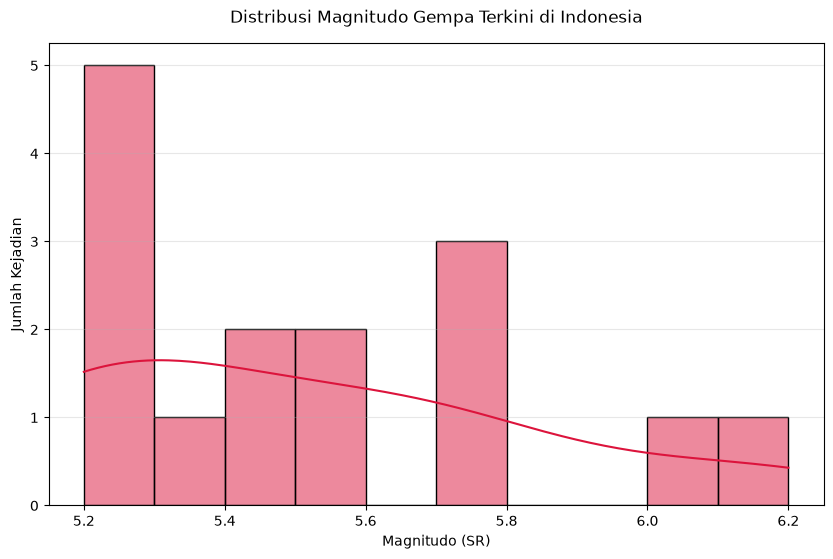
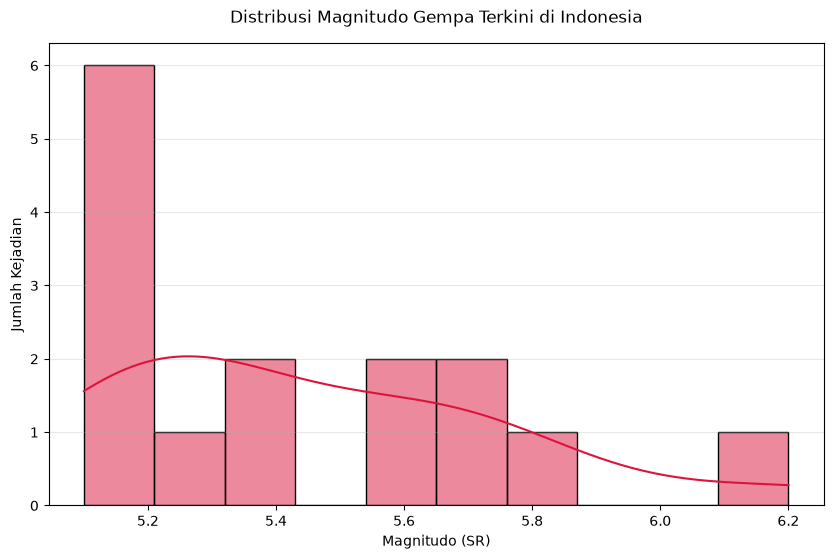
auto: update data gempa BMKG terkini

diff --git a/README.md b/README.md
@@ -4,8 +4,8 @@ Proyek portofolio data analytics sederhana menggunakan Open Data BMKG (Badan Met
 
 ## Insight Utama (Berdasarkan 15 gempa terakhir)
 - **Gempa Terbesar:** Terjadi dengan magnitudo **6.2 SR** di wilayah **168 km BaratLaut MALUKUBRTDAYA** pada 24 Agu 2026 pukul 21:10:18 WIB.
-- **Rata-rata Kekuatan:** Sekitar **5.52 SR**. Mayoritas gempa terkini berada di rentang menengah yang terpantau oleh sistem peringatan dini.
-- **Rata-rata Kedalaman:** **16.33 km**. 
+- **Rata-rata Kekuatan:** Sekitar **5.45 SR**. Mayoritas gempa terkini berada di rentang menengah yang terpantau oleh sistem peringatan dini.
+- **Rata-rata Kedalaman:** **34.07 km**. 
 
 ## Visualisasi Data
 
